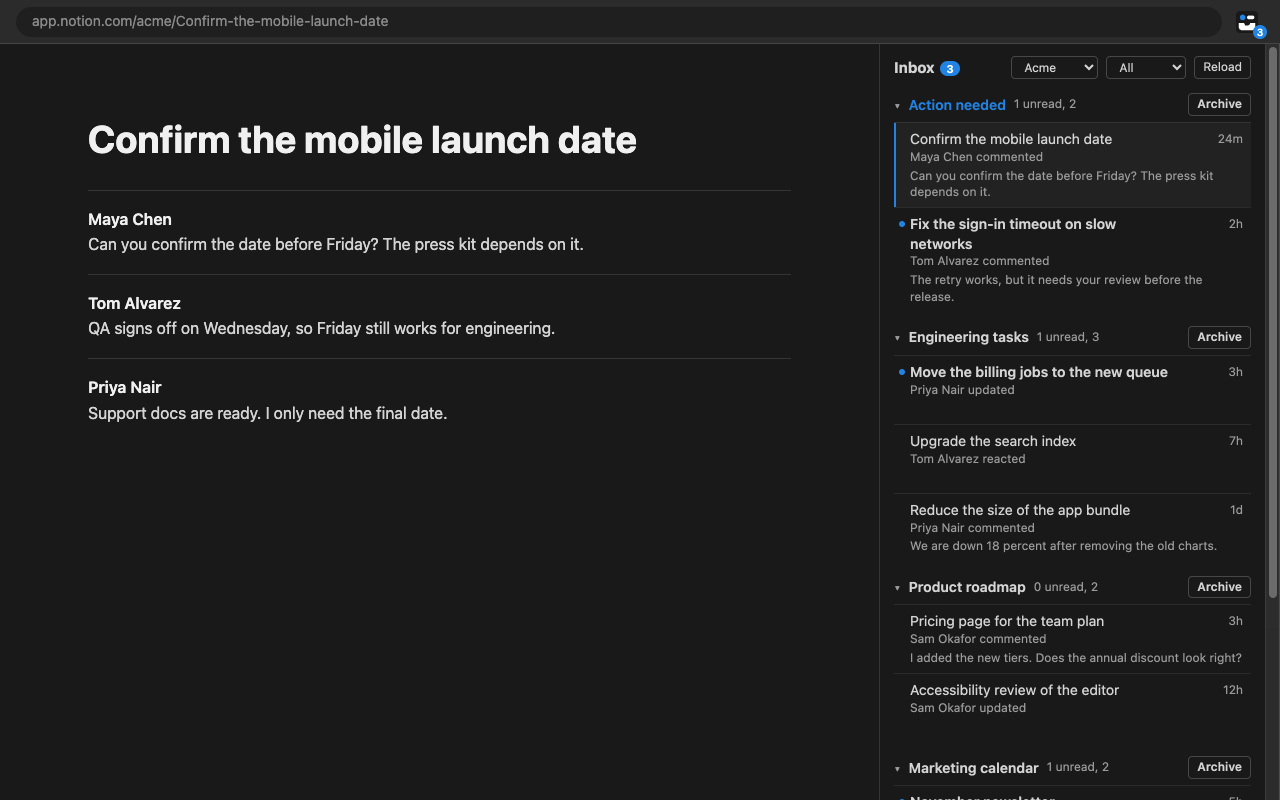
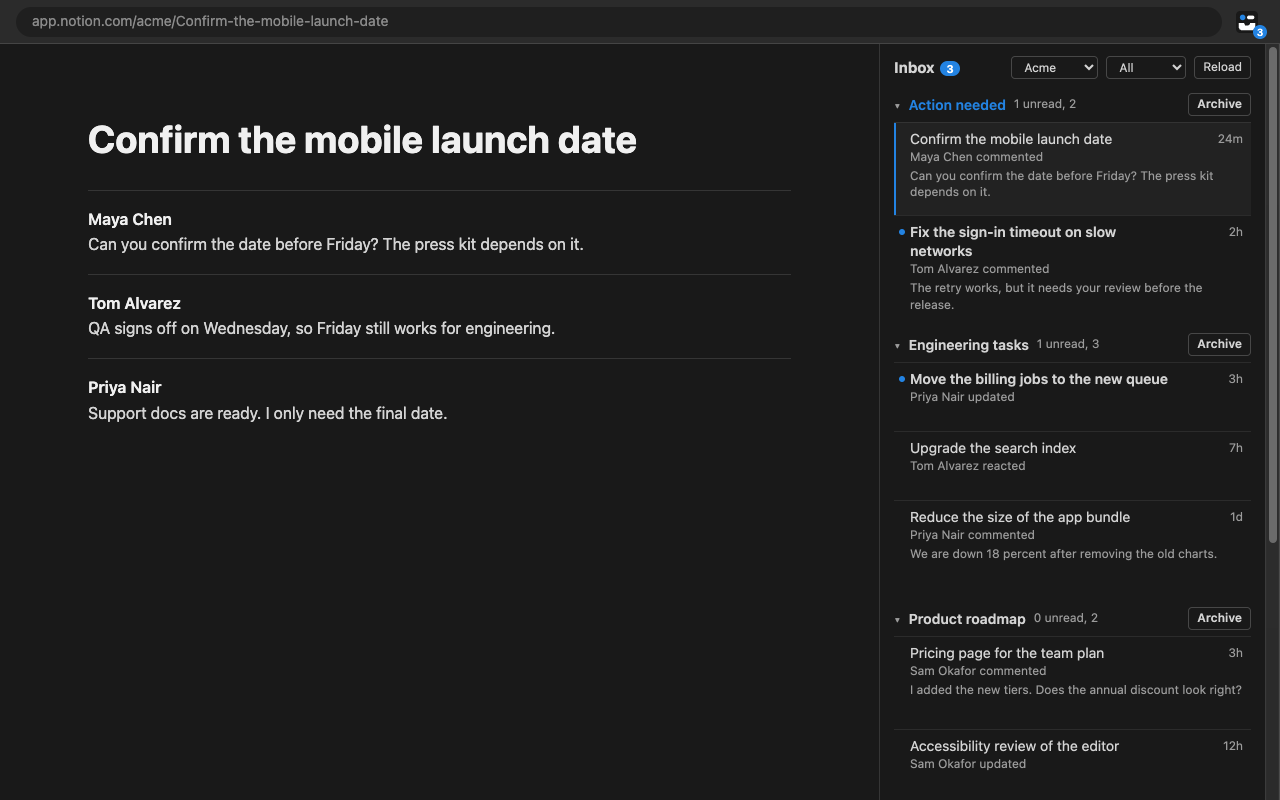
feat: rename the extension to Enhanced Notion
The extension now also schedules comments, so the name covers more than
the inbox. The item id stays, so current users keep the extension.

Document scheduled comments in the README, the privacy policy, and the
store listing. Add two store screenshots of the clock dialog and of
Reply later, and render the promo tile with the new name.

diff --git a/test/manifest.test.ts b/test/manifest.test.ts
@@ -31,8 +31,12 @@ test('the manifest points at icons that exist', () => {
   icons.forEach((icon) => assert.equal(existsSync(path.join(import.meta.dirname, '..', icon)), true, icon));
 });
 
-test('the manifest name does not start with the Notion trademark', () => {
-  assert.equal(manifest.name.startsWith('Notion'), false);
+test('the manifest name is Enhanced Notion, which does not start with the Notion trademark', () => {
+  assert.equal(manifest.name, 'Enhanced Notion');
+});
+
+test('the manifest description fits the 132 characters of the Chrome Web Store summary', () => {
+  assert.equal(manifest.description.length <= 132, true, `${manifest.description.length} characters`);
 });
 
 test('the manifest asks only for permissions without an install warning, so an update keeps the extension turned on', () => {

diff --git a/store/listing.md b/store/listing.md
@@ -4,7 +4,7 @@ Copy each field below into the Chrome Developer Dashboard. Upload the ZIP from `
 
 ## Store listing tab
 
-**Title** comes from the manifest: Inbox Tweaks for Notion
+**Title** comes from the manifest: Enhanced Notion
 
 **Summary** comes from the manifest.
 
@@ -14,14 +14,14 @@ Copy each field below into the Chrome Developer Dashboard. Upload the ZIP from `
 
 **Store icon:** `icons/icon-128.png`
 
-**Screenshots:** `store/screenshot-1.png`, `store/screenshot-2.png`
+**Screenshots:** `store/screenshot-1.png`, `store/screenshot-2.png`, `store/screenshot-3.png`, `store/screenshot-4.png`
 
 **Small promo tile:** `store/promo-tile.png`
 
 **Description:**
 
 ```text
-Sort your Notion inbox into groups, mark what needs your action, and clear the rest.
+Sort your Notion inbox into groups, mark what needs your action, clear the rest, and send your comments when you choose.
 
 - Group notifications by database, with no setup.
 - Create your own groups in the panel, and move a page or a whole database to a group.
@@ -31,8 +31,13 @@ Sort your Notion inbox into groups, mark what needs your action, and clear the r
 - Keep your place. The list does not move under your pointer when you archive.
 - See the unread count on the toolbar icon, with no Notion tab open.
 - Keep the inbox in a Chrome side panel, next to any tab, at the width you choose.
+- Reply later: write a reply from the inbox, and pick when it posts.
+- Send later: select the clock next to Send in any Notion comment box, and pick a time. The comment posts as you, even when the Notion tab is closed.
+- See your scheduled comments in the panel, and send or cancel any of them.
 
 Your data stays in your browser. The extension talks only to Notion, with your existing session. It has no server, no analytics, and no tracking.
+
+A scheduled comment posts only while Chrome is open. When Chrome is closed at the send time, the panel shows the comment, with Send now and Cancel.
 
 Known limit: The extension uses internal Notion endpoints, so a Notion release can break it until the extension is updated.
 
@@ -44,7 +49,7 @@ This extension is not affiliated with, or endorsed by, Notion Labs, Inc.
 **Single purpose:**
 
 ```text
-Show the Notion inbox in a side panel, where the user can group, mark, open, and archive notifications.
+Help the user handle Notion notifications and comments: show the Notion inbox in a side panel, where the user can group, mark, open, archive, and reply to notifications, and send a comment at a time that the user chooses.
 ```
 
 **Permission justifications:**
@@ -52,14 +57,14 @@ Show the Notion inbox in a side panel, where the user can group, mark, open, and
 | Permission | Justification |
 | --- | --- |
 | `sidePanel` | The inbox is shown in the Chrome side panel, which stays open while the user reads a page. |
-| `storage` | Saves the group rules, the All or Unread selection, the chosen workspace, and a copy of each row in Action needed or moved to a group in the browser. Keeps the last list and the unread count in memory until Chrome closes, so the panel opens at once. |
-| `alarms` | Checks the unread count every minute, to show the count on the toolbar icon while the panel is closed. |
+| `storage` | Saves the group rules, the All or Unread selection, the chosen workspace, a copy of each row in Action needed or moved to a group, and each scheduled comment until it is sent, in the browser. Keeps the last list and the unread count in memory until Chrome closes, so the panel opens at once. |
+| `alarms` | Checks the unread count every minute, to show the count on the toolbar icon while the panel is closed. Sends each scheduled comment at the time that the user chose. |
 | `scripting` | Opens a selected page in the existing Notion tab without a reload, and reads which Notion account is active in that tab. |
-| Host permission `https://app.notion.com/*` | Loads the inbox from Notion, and sends the archive and read updates that the user asks for. The extension accesses no other site. |
+| Host permission `https://app.notion.com/*` | Loads the inbox from Notion, sends the archive and read updates that the user asks for, and posts the comments that the user schedules. A content script adds a clock button to the Notion comment box, and reads the comment box only when the user selects that button. The extension accesses no other site. |
 
 **Remote code:** No, I am not using remote code.
 
-**Data usage:** Select "Personally identifiable information" (names of people in notifications) and "Website content" (titles and comment text). Select all three certifications.
+**Data usage:** Select "Personally identifiable information" (names of people in notifications), "Personal communications" (the comments that the user schedules), and "Website content" (titles and comment text). Select all three certifications.
 
 **Privacy policy URL:** https://gist.github.com/AlexandrosLagios/f7af4c566213874c72fd5a5e0089923c
 
@@ -74,5 +79,5 @@ Show the Notion inbox in a side panel, where the user can group, mark, open, and
 ## Test instructions tab
 
 ```text
-Sign in to any Notion account at https://app.notion.com, and make sure that the inbox has at least one notification. To create one, ask another member to mention you in a comment. Select the extension icon to open the side panel. Select a row to open the page. Point to a row, and select Action, Move, or Archive. To create a group, select Move, and select New group. To move a whole database, select Move, and select a group under All of <database>.
+Sign in to any Notion account at https://app.notion.com, and make sure that the inbox has at least one notification. To create one, ask another member to mention you in a comment. Select the extension icon to open the side panel. Select a row to open the page. Point to a row, and select Action, Move, or Archive. To create a group, select Move, and select New group. To move a whole database, select Move, and select a group under All of <database>. To schedule a reply, point to a row with a comment, select Reply later, type the reply, and select a time. To schedule a comment on a page, type a comment in a Notion comment box, select the clock button next to Send, and select a time. The Scheduled section of the panel lists the comments that are not sent yet.
 ```

diff --git a/README.md b/README.md
@@ -1,8 +1,8 @@
 # notion-tweaks
 
-The source of Inbox Tweaks for Notion, a Chrome extension that gives the Notion inbox groups, an "Action needed" section, and undo. The extension is not affiliated with Notion Labs, Inc. See the [privacy policy](https://gist.github.com/AlexandrosLagios/f7af4c566213874c72fd5a5e0089923c). When you change `PRIVACY.md`, update the gist as well.
+The source of Enhanced Notion, a Chrome extension that gives the Notion inbox groups, an "Action needed" section, and undo, and that sends Notion comments at a time that you choose. The extension is not affiliated with Notion Labs, Inc. See the [privacy policy](https://gist.github.com/AlexandrosLagios/f7af4c566213874c72fd5a5e0089923c). When you change `PRIVACY.md`, update the gist as well.
 
-The extension adds a Chrome side panel for the Notion web app at `https://app.notion.com`. The panel shows the inbox notifications in groups. By default, each group collects the notifications of one database, and you can create your own groups in the panel. The panel uses internal Notion endpoints, so a Notion release can break the panel.
+The extension adds a Chrome side panel for the Notion web app at `https://app.notion.com`. The panel shows the inbox notifications in groups. By default, each group collects the notifications of one database, and you can create your own groups in the panel. A content script adds a clock button to each Notion comment box. The extension uses internal Notion endpoints and props, so a Notion release can break the extension.
 
 ## Install
 
@@ -11,7 +11,7 @@ The extension adds a Chrome side panel for the Notion web app at `https://app.no
 3. Turn on "Developer mode".
 4. Select "Load unpacked", and select this directory.
 
-After a change, run `npm run build` again. After a change to `manifest.json`, `src/background.ts`, or `src/notion-api.ts`, select the reload icon of the extension on `chrome://extensions`. After a change to another file, close the side panel and open the side panel again.
+After a change, run `npm run build` again. After a change to `manifest.json`, `src/background.ts`, or `src/notion-api.ts`, select the reload icon of the extension on `chrome://extensions`. After a change to `src/content.ts`, `src/content-main.ts`, or `src/picker.ts`, reload the extension, and then reload each Notion tab. A Notion tab keeps the earlier content script until the tab reloads. After a change to another file, close the side panel and open the side panel again.
 
 ## Groups
 
@@ -60,6 +60,30 @@ The toolbar icon and the badge next to the title show the number of unread notif
 
 The panel shows the last list at once when it opens, with "Updating…" in the header, and then loads the current list. When the unread count goes up, the panel loads the list again. The panel waits until the pointer leaves the panel, so the list does not change under the pointer. Like "Reload", this load removes the archived rows.
 
+## Schedule a comment
+
+A scheduled comment posts as you, with your Notion session, at the time that you choose. The comment takes plain text only, without mentions, links, or formatting.
+
+To reply later from the panel:
+
+1. Point to a row with a comment, and select "Reply later".
+2. Type the reply.
+3. Select a preset time, or select a date and a time, and then select "Schedule".
+
+To send a comment later from a Notion page:
+
+1. Type the comment in a Notion comment box. The box can be a reply in a thread, a page comment, or a comment on selected text.
+2. Select the clock button next to the send button.
+3. Select a preset time, or select a date and a time, and then select "Schedule".
+
+The extension clears the comment box. The "Scheduled" section at the top of the panel lists each comment that is not sent yet. To remove a comment, select "Cancel". The send time must be at least 1 minute ahead.
+
+A comment posts only while Chrome is open. When Chrome is closed or the computer sleeps at the send time, and the time is more than 5 minutes ago, the comment does not post. The row shows "Not sent", with "Send now" and "Cancel". When Notion refuses a comment, the row shows the reason from Notion, and "Send now" tries again.
+
+A reply from the panel can fail in a thread that you do not follow, because only the Notion page knows your follow state. Cancel that reply, and schedule the reply from the page with the clock button.
+
+A comment on selected text posts without the highlight in the page text.
+
 ## Publish
 
 1. Update `version` in `manifest.json`.
@@ -76,7 +100,7 @@ npm test
 npm run check
 ```
 
-The unit tests cover `src/grouping.ts` and `manifest.json`. Do the manual check below after a change to `src/notion-api.ts`, `src/panel.ts`, or `src/sidepanel.ts`:
+The unit tests cover `src/grouping.ts`, `src/schedule.ts`, the comment requests of `src/notion-api.ts`, and `manifest.json`. Do the manual check below after a change to `src/notion-api.ts`, `src/panel.ts`, or `src/sidepanel.ts`:
 
 1. Run `npm run build`, load this directory as an unpacked extension, and open the panel.
 2. Select a row. Make sure that the Notion tab opens the page without a reload.
@@ -89,3 +113,9 @@ Do these checks too after a change to `src/background.ts` or `src/sidepanel.ts`:
 1. Close the panel, and wait one minute. Make sure that the toolbar icon shows the unread count.
 2. Open the panel. Make sure that the last list shows at once, with "Updating…" in the header.
 3. Select "Move" on a row in a database, and select a group under "All of <database>". Make sure that all the rows of the database move.
+
+Do these checks too after a change to `src/content.ts`, `src/content-main.ts`, `src/picker.ts`, `src/schedule.ts`, or the comment requests in `src/notion-api.ts`:
+
+1. Reload the Notion tab. Make sure that each comment box shows the clock button next to the send button.
+2. Type a reply in a thread, select the clock button, and schedule the reply 2 minutes ahead. Make sure that the reply posts at that time.
+3. Select "Reply later" on a row in the panel, and schedule a reply 2 minutes ahead. Make sure that the reply posts at that time.

diff --git a/PRIVACY.md b/PRIVACY.md
@@ -1,8 +1,8 @@
-# Privacy policy for Inbox Tweaks for Notion
+# Privacy policy for Enhanced Notion
 
-Effective date: 2026-11-08
+Effective date: 2026-11-09
 
-Inbox Tweaks for Notion is a Chrome extension that shows your Notion inbox in a side panel. The extension is not affiliated with Notion Labs, Inc.
+Enhanced Notion is a Chrome extension that shows your Notion inbox in a side panel, and sends your Notion comments at a time that you choose. The extension is not affiliated with Notion Labs, Inc.
 
 ## What the extension handles
 
@@ -13,12 +13,15 @@ The extension reads these items from your Notion account:
 - Comment text.
 - The names of the people and bots that caused a notification.
 - Your Notion user id, and the ids and names of your workspaces.
+- The text of a comment that you schedule, and the ids of its page, block, and thread.
 
-The extension uses these items only to show your inbox and to do what you ask, such as to archive a notification or to mark a notification as read.
+The extension uses these items only to show your inbox and to do what you ask, such as to archive a notification, to mark a notification as read, or to send a comment.
+
+On a Notion page, the extension reads a comment box only when you select its clock button. The extension reads no other page content.
 
 ## Where the data goes
 
-The extension sends requests only to `https://app.notion.com`, with your existing Notion session. Every minute, the extension asks Notion for the unread count of the workspace that the panel showed last. The extension has no server of its own. The extension sends no data to the developer or to any other party. The extension contains no analytics, no advertising, and no tracking.
+The extension sends requests only to `https://app.notion.com`, with your existing Notion session. At the time that you choose, the extension posts your scheduled comment as you. Every minute, the extension asks Notion for the unread count of the workspace that the panel showed last. The extension has no server of its own. The extension sends no data to the developer or to any other party. The extension contains no analytics, no advertising, and no tracking.
 
 ## What the extension stores
 
@@ -27,6 +30,7 @@ The extension stores these items in your browser:
 - The id of the workspace that you chose, and your All or Unread selection, in `chrome.storage.local`.
 - A copy of each row that you move to "Action needed" or to another group, in `chrome.storage.local`. The copy holds the title, the names, the comment preview of the row, and the name of the group.
 - The last list that the panel showed, the names of your workspaces, and the unread count, in `chrome.storage.session`. Chrome keeps this storage in memory, and clears it when Chrome closes.
+- Each scheduled comment, in `chrome.storage.local`, until the extension sends the comment or you cancel it. The entry holds the comment text, the page title and path, the ids of the comment target, and the send time.
 - Your group rules, in `chrome.storage.sync`. If you turn on Chrome sync, Google syncs these rules between your Chrome browsers.
 
 To delete all these items, remove the extension from Chrome.

diff --git a/.claude/skills/release/SKILL.md b/.claude/skills/release/SKILL.md
@@ -5,7 +5,7 @@ description: Use when releasing a new version of this extension to the Chrome We
 
 # release
 
-Prepare a new version of Inbox Tweaks for Notion, and hand the upload to the user.
+Prepare a new version of Enhanced Notion, and hand the upload to the user.
 
 A request for a release authorizes the commit, the tag, and the push to `main`. Never submit to the store for the user. Chrome blocks browser tools on the Web Store, and the submission is theirs.
 
@@ -61,7 +61,7 @@ The version must be higher than the last tag, or the dashboard rejects the ZIP. 
 2. Run the command below. Replace `X.Y.Z` with the new version.
 
 ```sh
-cd "$root" && [ "$(git branch --show-current)" = main ] && node --test 2>&1 | grep -E '^ℹ fail 0$' && npm run --silent check && "$root/scripts/package.sh" && python3 -c "import json,zipfile; assert json.loads(zipfile.ZipFile('$root/dist/inbox-tweaks-for-notion-X.Y.Z.zip').read('manifest.json'))['version'] == 'X.Y.Z'" && git add manifest.json && git commit -m "chore: release X.Y.Z" && git tag vX.Y.Z && git push origin main vX.Y.Z
+cd "$root" && [ "$(git branch --show-current)" = main ] && node --test 2>&1 | grep -E '^ℹ fail 0$' && npm run --silent check && "$root/scripts/package.sh" && python3 -c "import json,zipfile; assert json.loads(zipfile.ZipFile('$root/dist/enhanced-notion-X.Y.Z.zip').read('manifest.json'))['version'] == 'X.Y.Z'" && git add manifest.json && git commit -m "chore: release X.Y.Z" && git tag vX.Y.Z && git push origin main vX.Y.Z
 ```
 
 Commit changes from step 2 in earlier commits, so that this commit holds only the version.
@@ -70,7 +70,7 @@ Commit changes from step 2 in earlier commits, so that this commit holds only th
 
 ```sh
 open "https://chrome.google.com/webstore/devconsole/681f0b71-fedf-41b2-ac38-00175a64170e"
-open -R "$root/dist/inbox-tweaks-for-notion-X.Y.Z.zip"
+open -R "$root/dist/enhanced-notion-X.Y.Z.zip"
 ```
 
 Give the user these steps:
